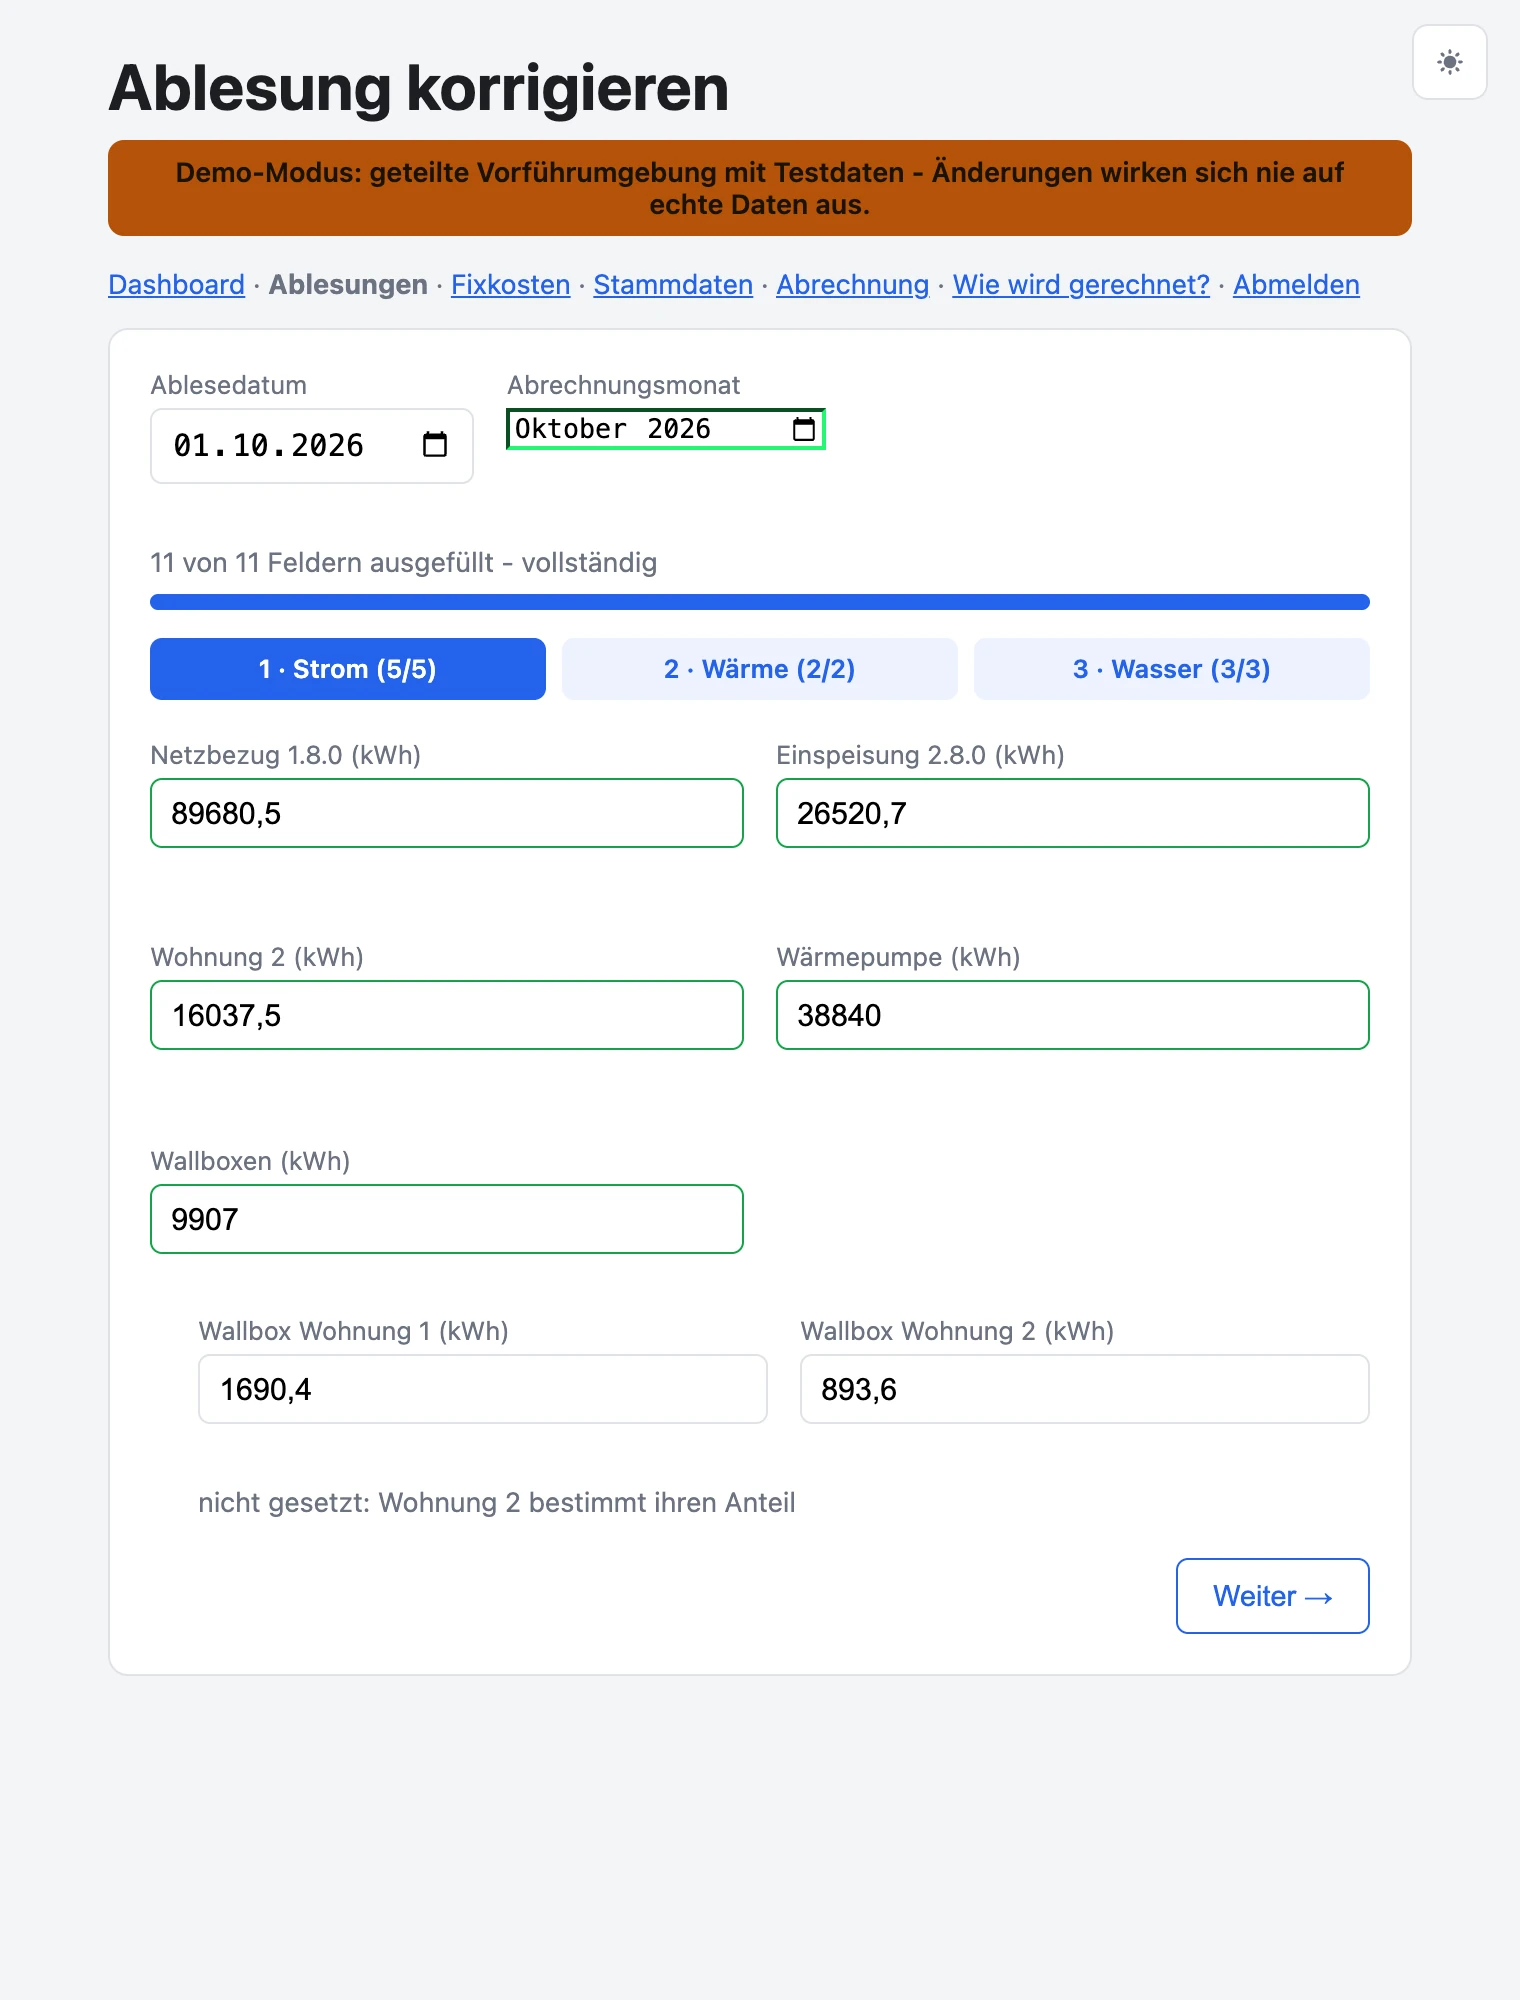
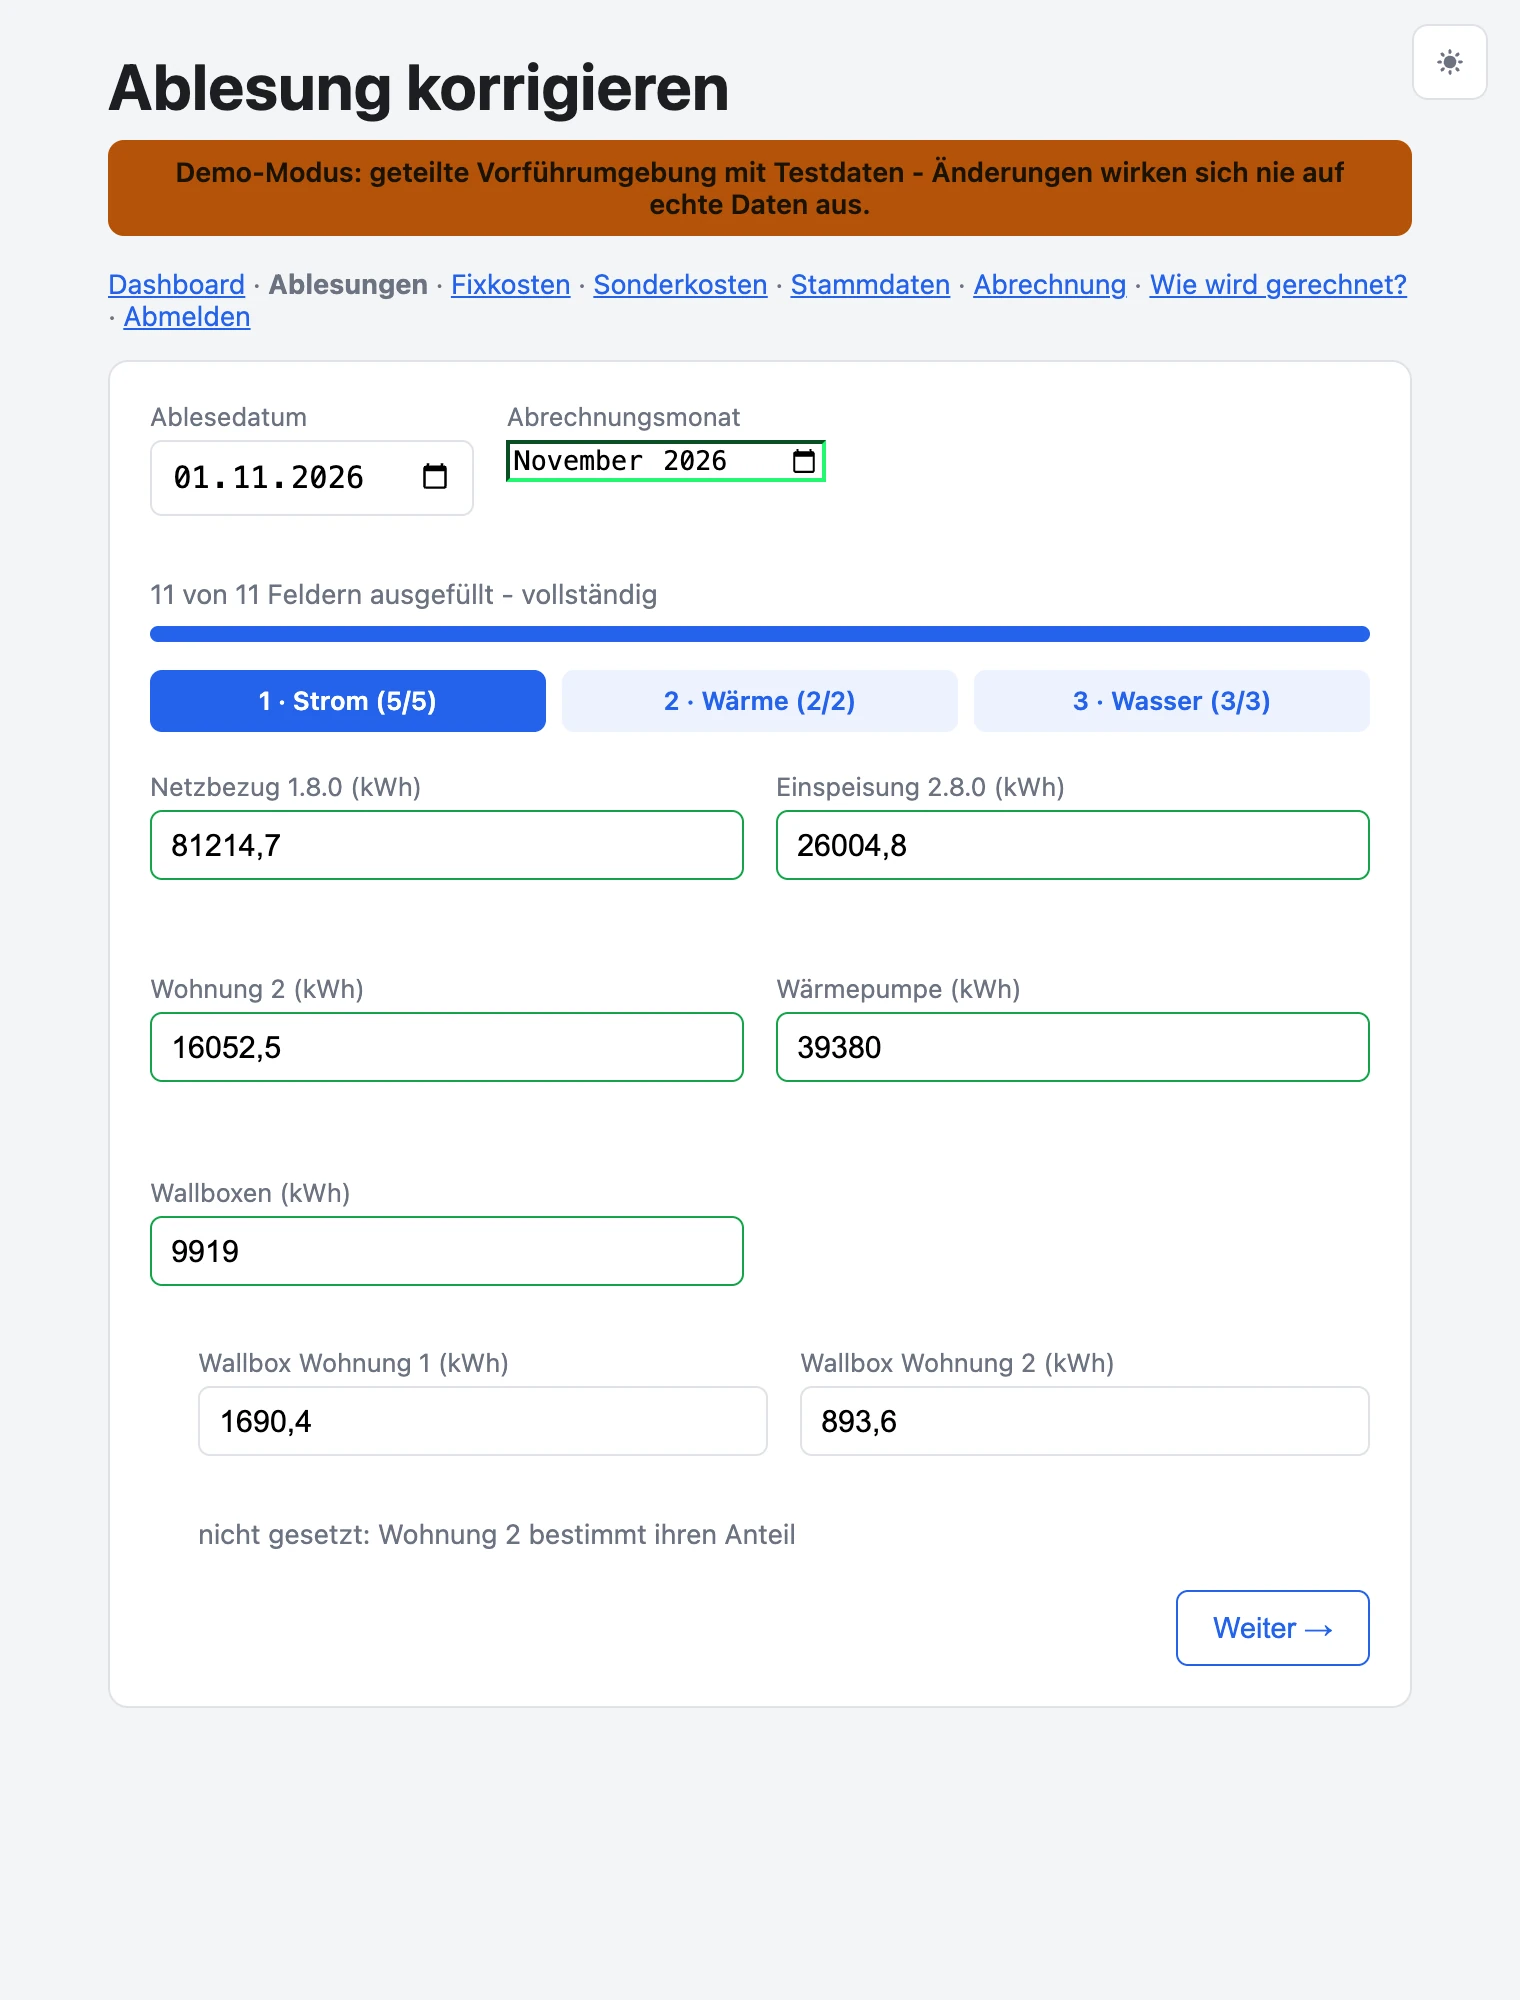
docs(screenshots): Alle Bilder neu erzeugt, Sonderkosten ergänzt
Neue Ansicht der Sonderkosten-Liste im Skript und in der
README-Tabelle.

diff --git a/README.md b/README.md
@@ -30,6 +30,7 @@ Alle Bilder stammen aus dem [Demo-Modus](#demo-modus), die Daten sind erfunden.
 | Dashboard | [Verbrauch](docs/screenshots/dashboard.webp), [Fixkosten](docs/screenshots/dashboard-fixkosten.webp), [Kombiniert](docs/screenshots/dashboard-kombiniert.webp), [Wohnung 2](docs/screenshots/dashboard-wohnung2.webp), [PV-Anlage](docs/screenshots/dashboard-pv-anlage.webp), [dunkles Design](docs/screenshots/dashboard-dunkel.webp) |
 | Ablesungen | [Liste](docs/screenshots/ablesungen.webp), [Detail](docs/screenshots/ablesung-detail.webp), [Ablesung korrigieren](docs/screenshots/ablesung-bearbeiten.webp) |
 | Fixkosten | [Liste](docs/screenshots/fixkosten.webp), [Detail](docs/screenshots/fixkosten-detail.webp), [neue Eingabe](docs/screenshots/fixkosten-neu.webp) |
+| Sonderkosten | [Liste](docs/screenshots/sonderkosten.webp) |
 | Stammdaten | [Stammdaten](docs/screenshots/stammdaten.webp) |
 | Abrechnung | [Jahresabrechnung](docs/screenshots/abrechnung.webp) |
 
